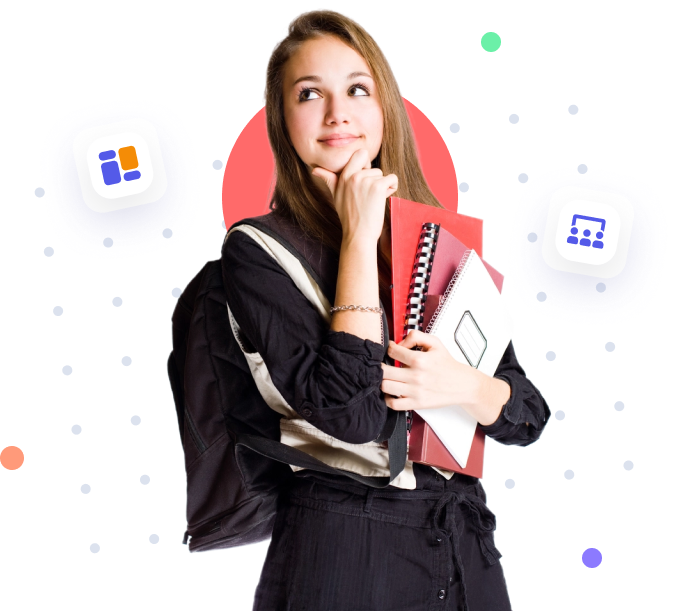
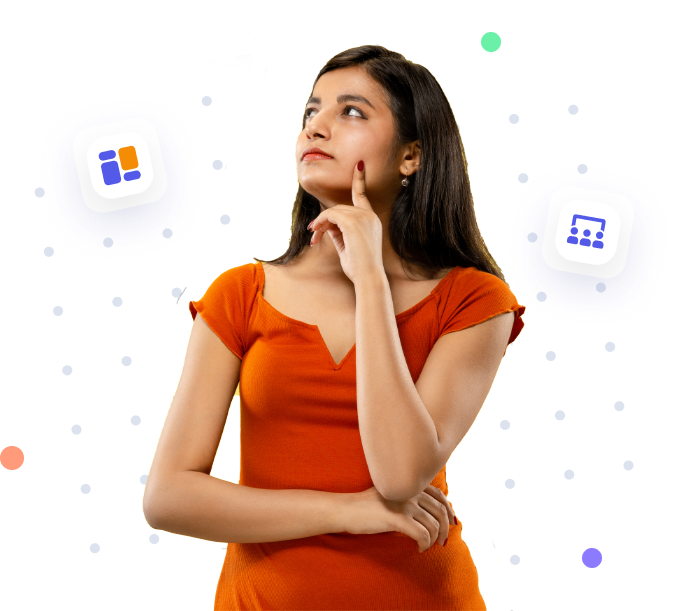
chore: change contents

diff --git a/components/MainContainerComponent.vue b/components/MainContainerComponent.vue
@@ -1,23 +1,12 @@
 <template>
   <div class="container px-4 lg:px-8 mx-auto max-w-screen-xl text-gray-700 overflow-x-hidden">
 
-    <!-- trusted by -->
-    <div class="max-w-4xl mx-auto">
-      <h1 class="text-center mb-3 text-gray-400 font-medium">Trusted by 5,000+ Companies Worldwide</h1>
-      <div class="grid grid-cols-3 lg:grid-cols-6 gap-4 justify-items-center">
-        <img class="h-7" src="img/company/google.svg">
-        <img class="h-7" src="img/company/netflix.svg">
-        <img class="h-7" src="img/company/airbnb.svg">
-        <img class="h-7 transform translate-y-2" src="img/company/amazon.svg">
-        <img class="h-7" src="img/company/facebook.svg">
-        <img class="h-7" src="img/company/grab.svg">
-      </div>
-    </div>
 
     <!-- All-In-One Cloud Software. -->
     <div data-aos="flip-up" class="max-w-xl mx-auto text-center mt-24">
-      <h1 class="font-bold text-darken my-3 text-2xl">All-In-One <span class="text-yellow-500">Cloud Software.</span></h1>
-      <p class="leading-relaxed text-gray-500">Skilline is one powerful online software suite that combines all the tools needed to run a successful school or office.</p>
+      <h1 class="font-bold text-darken my-3 text-2xl">Why to choose <span class="text-yellow-500">Foodie Hub?</span></h1>
+      <p class="leading-relaxed text-gray-500">Canteen Management Software is an automated software which enables all the activities of the canteen and maintain a detailed account of food served at the canteen.. It allows secure and speedy transactions. It helps management to handle the users by reducing the waiting time for the customers.
+      </p>
     </div>
     <!-- card -->
     <div class="grid md:grid-cols-3 gap-14 md:gap-5 mt-20">
@@ -27,8 +16,8 @@
             <path d="M24.75 23H8.25V28.75H24.75V23ZM32.3984 9.43359L23.9852 0.628906C23.5984 0.224609 23.0742 0 22.5242 0H22V11.5H33V10.952C33 10.3859 32.7852 9.83789 32.3984 9.43359ZM19.25 12.2188V0H2.0625C0.919531 0 0 0.961328 0 2.15625V43.8438C0 45.0387 0.919531 46 2.0625 46H30.9375C32.0805 46 33 45.0387 33 43.8438V14.375H21.3125C20.1781 14.375 19.25 13.4047 19.25 12.2188ZM5.5 6.46875C5.5 6.07164 5.80766 5.75 6.1875 5.75H13.0625C13.4423 5.75 13.75 6.07164 13.75 6.46875V7.90625C13.75 8.30336 13.4423 8.625 13.0625 8.625H6.1875C5.80766 8.625 5.5 8.30336 5.5 7.90625V6.46875ZM5.5 12.2188C5.5 11.8216 5.80766 11.5 6.1875 11.5H13.0625C13.4423 11.5 13.75 11.8216 13.75 12.2188V13.6562C13.75 14.0534 13.4423 14.375 13.0625 14.375H6.1875C5.80766 14.375 5.5 14.0534 5.5 13.6562V12.2188ZM27.5 39.5312C27.5 39.9284 27.1923 40.25 26.8125 40.25H19.9375C19.5577 40.25 19.25 39.9284 19.25 39.5312V38.0938C19.25 37.6966 19.5577 37.375 19.9375 37.375H26.8125C27.1923 37.375 27.5 37.6966 27.5 38.0938V39.5312ZM27.5 21.5625V30.1875C27.5 30.9817 26.8847 31.625 26.125 31.625H6.875C6.11531 31.625 5.5 30.9817 5.5 30.1875V21.5625C5.5 20.7683 6.11531 20.125 6.875 20.125H26.125C26.8847 20.125 27.5 20.7683 27.5 21.5625Z" fill="white"/>
           </svg>
         </div>
-        <h1 class="font-medium text-xl mb-3 lg:px-14 text-darken">Online Billing, Invoicing, & Contracts</h1>
-        <p class="px-4 text-gray-500">Simple and secure control of your organization’s financial and legal transactions. Send customized invoices and contracts</p>
+        <h1 class="font-medium text-xl mb-3 lg:px-14 text-darken">Online Billing & Invoicing</h1>
+        <p class="px-4 text-gray-500">A well-structured, organized way of maintaining the canteen’s data will ensure no wastage of food or finances, no manipulation of meal prices, no proxy mean orders, etc...</p>
       </div>
       <div data-aos="fade-up" data-aos-delay="150" class="bg-white shadow-xl p-6 text-center rounded-xl">
         <div style="background: #F48C06;" class="rounded-full w-16 h-16 flex items-center justify-center mx-auto shadow-lg transform -translate-y-12">
@@ -47,8 +36,8 @@
             <path d="M37.7143 37.7142H34.2857C33.3389 37.7142 32.5714 38.4817 32.5714 39.4285C32.5714 40.3754 33.3389 41.1429 34.2857 41.1429H37.7143C38.6611 41.1429 39.4286 40.3754 39.4286 39.4285C39.4286 38.4817 38.661 37.7142 37.7143 37.7142Z" fill="#F5F5FC"/>
           </svg>
         </div>
-        <h1 class="font-medium text-xl mb-3 lg:px-14 text-darken">Easy Scheduling & Attendance Tracking</h1>
-        <p class="px-4 text-gray-500">Schedule and reserve classrooms at one campus or multiple campuses. Keep detailed records of student attendance</p>
+        <h1 class="font-medium text-xl mb-3 lg:px-14 text-darken">Easy Scheduling & Customizable menu</h1>
+        <p class="px-4 text-gray-500">When a diverse group of people is together for a meal, it becomes very important to cater to varying tastes. Features to customize the canteen’s menu facilitate this to a great extent.</p>
       </div>
       <div data-aos="fade-up" data-aos-delay="300" class="bg-white shadow-xl p-6 text-center rounded-xl">
         <div style="background: #29B9E7;" class="rounded-full w-16 h-16 flex items-center justify-center mx-auto shadow-lg transform -translate-y-12">
@@ -56,29 +45,29 @@
             <path d="M8.25 19.25C11.2836 19.25 13.75 16.7836 13.75 13.75C13.75 10.7164 11.2836 8.25 8.25 8.25C5.21641 8.25 2.75 10.7164 2.75 13.75C2.75 16.7836 5.21641 19.25 8.25 19.25ZM46.75 19.25C49.7836 19.25 52.25 16.7836 52.25 13.75C52.25 10.7164 49.7836 8.25 46.75 8.25C43.7164 8.25 41.25 10.7164 41.25 13.75C41.25 16.7836 43.7164 19.25 46.75 19.25ZM49.5 22H44C42.4875 22 41.1211 22.6102 40.1242 23.5984C43.5875 25.4977 46.0453 28.9266 46.5781 33H52.25C53.7711 33 55 31.7711 55 30.25V27.5C55 24.4664 52.5336 22 49.5 22ZM27.5 22C32.8195 22 37.125 17.6945 37.125 12.375C37.125 7.05547 32.8195 2.75 27.5 2.75C22.1805 2.75 17.875 7.05547 17.875 12.375C17.875 17.6945 22.1805 22 27.5 22ZM34.1 24.75H33.3867C31.5992 25.6094 29.6141 26.125 27.5 26.125C25.3859 26.125 23.4094 25.6094 21.6133 24.75H20.9C15.4344 24.75 11 29.1844 11 34.65V37.125C11 39.4023 12.8477 41.25 15.125 41.25H39.875C42.1523 41.25 44 39.4023 44 37.125V34.65C44 29.1844 39.5656 24.75 34.1 24.75ZM14.8758 23.5984C13.8789 22.6102 12.5125 22 11 22H5.5C2.46641 22 0 24.4664 0 27.5V30.25C0 31.7711 1.22891 33 2.75 33H8.41328C8.95469 28.9266 11.4125 25.4977 14.8758 23.5984Z" fill="white"/>
           </svg>
         </div>
-        <h1 class="font-medium text-xl mb-3 lg:px-14 text-darken lg:h-14 pt-3">Customer Tracking</h1>
-        <p class="px-4 text-gray-500">Automate and track emails to individuals or groups. Skilline’s built-in system helps organize your organization </p>
+        <h1 class="font-medium text-xl mb-3 lg:px-14 text-darken lg:h-14 pt-3">Food Planning & Customer Reviews</h1>
+        <p class="px-4 text-gray-500">Canteen management systems help an organisation to become adaptive and flexible  that operates smoothly and efficiently on its own.</p>
       </div>
     </div>
 
     <!-- lorem -->
     <div class="mt-28">
       <div data-aos="flip-down" class="text-center max-w-screen-md mx-auto">
-        <h1 class="text-3xl font-bold mb-4">What is<span class="text-yellow-500">Skilline?</span></h1>
-        <p class="text-gray-500">Skilline is a platform that allows educators to create online classes whereby they can store the course materials online; manage assignments, quizzes and exams; monitor due dates; grade results and provide students with feedback all in one place.</p>
+        <h1 class="text-3xl font-bold mb-4">What exactly is <span class="text-yellow-500">Foodie Hub?</span></h1>
+        <p class="text-gray-500">Canteen Management Software is an automated software which enables all the activities of the canteen and maintain a detailed account of food served at the canteen.. It allows secure and speedy transactions. It helps management to handle the users by reducing the waiting time for the customers.</p>
       </div>
       <div data-aos="fade-up" class="flex flex-col md:flex-row justify-center space-y-5 md:space-y-0 md:space-x-6 lg:space-x-10 mt-7">
         <div class="relative md:w-5/12">
-          <img class="rounded-2xl" src="img/Rectangle 19.png" alt="">
+          <img class="rounded-2xl" src="img/employees.jpg" alt="">
           <div class="absolute bg-black bg-opacity-20 bottom-0 left-0 right-0 w-full h-full rounded-2xl">
             <div class="absolute top-1/2 left-1/2 transform -translate-x-1/2 -translate-y-1/2">
-              <h1 class="uppercase text-white font-bold text-center text-sm lg:text-xl mb-3">FOR INSTRUCTORS</h1>
+              <h1 class="uppercase text-white font-bold text-center text-sm lg:text-xl mb-3">FOR EMPLOYEES</h1>
               <button class="rounded-full text-white border text-xs lg:text-md px-6 py-3 w-full font-medium focus:outline-none transform transition hover:scale-110 duration-300 ease-in-out">Start a class today</button>
             </div>
           </div>
         </div>
         <div class="relative md:w-5/12">
-          <img class="rounded-2xl" src="img/Rectangle 21.png" alt="">
+          <img class="rounded-2xl" src="img/students.jpg" alt="">
           <div class="absolute bg-black bg-opacity-20 bottom-0 left-0 right-0 w-full h-full rounded-2xl">
             <div class="absolute top-1/2 left-1/2 transform -translate-x-1/2 -translate-y-1/2">
               <h1 class="uppercase text-white font-bold text-center text-sm lg:text-xl mb-3">FOR STUDENTS</h1>
@@ -98,7 +87,7 @@
       </div>
       <div data-aos="fade-left" class="sm:w-1/2 relative mt-10 sm:mt-0">
         <div style="background: #23BDEE;" class="floating w-24 h-24 absolute rounded-lg z-0 -top-3 -left-3"></div>
-        <img class="rounded-xl z-40 relative" src="img/teacher-explaining.png" alt="">
+        <img class="rounded-xl z-40 relative" src="img/couple.jpg" alt="">
         <button class="bg-white w-14 h-14 rounded-full flex items-center justify-center absolute top-1/2 left-1/2 transform -translate-x-1/2 -translate-y-1/2 focus:outline-none transform transition hover:scale-110 duration-300 ease-in-out z-50">
           <svg class="w-5 h-5 ml-1" viewBox="0 0 24 28" fill="none" xmlns="http://www.w3.org/2000/svg">
             <path d="M22.5751 12.8097C23.2212 13.1983 23.2212 14.135 22.5751 14.5236L1.51538 27.1891C0.848878 27.5899 5.91205e-07 27.1099 6.25202e-07 26.3321L1.73245e-06 1.00123C1.76645e-06 0.223477 0.848877 -0.256572 1.51538 0.14427L22.5751 12.8097Z" fill="#23BDEE"/>
@@ -161,7 +150,7 @@
     <!-- Assessments, Quizzes, Tests -->
     <div class="mt-20 flex flex-col-reverse md:flex-row items-center md:space-x-10">
       <div data-aos="fade-right" class="md:w-6/12">
-        <img class="md:w-11/12" src="img/true-false.png">
+        <img class="md:w-11/12 rounded-xl" src="img/hotel-interior.png">
       </div>
       <div data-aos="fade-left" class="md:w-6/12 md:transform md:-translate-y-20">
         <h1 class="font-semibold text-darken text-3xl lg:pr-64">Assessments, <span class="text-yellow-500">Quizzes</span>, Tests</h1>
@@ -175,13 +164,45 @@
         <h1 class="text-darken font-semibold text-3xl leading-tight lg:pr-32"><span class="text-yellow-500">Class Management</span> Tools for Educators</h1>
         <p class="my-5 lg:pr-14">Class provides tools to help run and manage the class such as Class Roster, Attendance, and more. With the Gradebook, teachers can review and grade tests and quizzes in real-time.</p>
       </div>
-      <img data-aos="fade-left" class="md:w-7/12" src="img/gradebook.png">
+      <img data-aos="fade-left" class="md:w-7/12" src="img/girl_introducing.png">
     </div>
 
     <!-- One-on-One Discussions -->
     <div class="mt-24 flex flex-col-reverse md:flex-row items-center md:space-x-10">
       <div data-aos="fade-right" class="md:w-7/12">
-        <img class="md:w-11/12" src="img/discussion.png">
+        <img class="md:w-11/12" src="img/girl-with-coffee.png">
+      </div>
+      <div data-aos="fade-left" class="md:w-5/12 md:transform md:-translate-y-6">
+        <h1 class="font-semibold text-darken text-3xl lg:pr-64">One-on-One <span class="text-yellow-500">Discussions</span></h1>
+        <p class="text-gray-500 my-5 lg:pr-24">Teachers and teacher assistants can talk with students privately without leaving the Zoom environment.</p>
+      </div>
+    </div>
+
+
+    <div class="sm:flex items-center sm:space-x-8 mt-36">
+      <div data-aos="fade-right" class="sm:w-1/2 relative">
+        <div class="bg-yellow-500 rounded-full absolute w-12 h-12 z-0 -left-4 -top-3 animate-pulse"></div>
+        <h1 class="font-semibold text-2xl relative z-50 text-darken lg:pr-10">With our wide range of recipes, <span class="text-yellow-500">you can do with Skilline</span></h1>
+        <p class="py-5 lg:pr-32">Skilline’s school management software helps traditional and online schools manage scheduling, attendance, payments and virtual classrooms all in one secure cloud-based system.</p>
+        <a href="" class="underline">Learn More</a>
+      </div>
+      <div data-aos="fade-left" class="sm:w-1/2 relative mt-10 sm:mt-0">
+        <div style="background: #23BDEE;" class="floating w-24 h-24 absolute rounded-lg z-0 -top-3 -left-3"></div>
+        <img class="rounded-xl z-40 relative" src="img/chef.jpg" alt="">
+        <button class="bg-white w-14 h-14 rounded-full flex items-center justify-center absolute top-1/2 left-1/2 transform -translate-x-1/2 -translate-y-1/2 focus:outline-none transform transition hover:scale-110 duration-300 ease-in-out z-50">
+          <svg class="w-5 h-5 ml-1" viewBox="0 0 24 28" fill="none" xmlns="http://www.w3.org/2000/svg">
+            <path d="M22.5751 12.8097C23.2212 13.1983 23.2212 14.135 22.5751 14.5236L1.51538 27.1891C0.848878 27.5899 5.91205e-07 27.1099 6.25202e-07 26.3321L1.73245e-06 1.00123C1.76645e-06 0.223477 0.848877 -0.256572 1.51538 0.14427L22.5751 12.8097Z" fill="#23BDEE"/>
+          </svg>
+        </button>
+        <div class="bg-yellow-500 w-40 h-40 floating absolute rounded-lg z-10 -bottom-3 -right-3"></div>
+      </div>
+    </div>
+
+
+    <!-- One-on-One Discussions -->
+    <div class="mt-24 flex flex-col-reverse md:flex-row items-center md:space-x-10">
+      <div data-aos="fade-right" class="md:w-7/12">
+        <img class="md:w-11/12" src="img/credits.png">
       </div>
       <div data-aos="fade-left" class="md:w-5/12 md:transform md:-translate-y-6">
         <h1 class="font-semibold text-darken text-3xl lg:pr-64">One-on-One <span class="text-yellow-500">Discussions</span></h1>
@@ -190,100 +211,6 @@
     </div>
 
     <button data-aos="flip-up" class="px-5 py-3 border border-yellow-500 text-yellow-500 font-medium my-14 focus:outline-none transform transition hover:scale-110 duration-300 ease-in-out rounded-full mx-auto block">See more features</button>
-
-    <!-- INTEGRATIONS -->
-    <div class="mt-24 flex flex-col md:flex-row items-start md:space-x-10">
-      <div data-aos="zoom-in-right" class="md:w-6/12">
-        <img class="md:w-8/12 mx-auto" src="img/integrations.png">
-      </div>
-      <div data-aos="zoom-in-left" class="md:w-6/12">
-        <div class="flex items-center space-x-20 mb-5">
-          <span class="border border-gray-300 w-14 absolute"></span>
-          <h1 class="text-gray-400 tracking-widest text-sm">INTEGRATIONS</h1>
-        </div>
-        <h1 class="font-semibold text-darken text-2xl lg:pr-40">200+ educational tools and platform <span class="text-yellow-500">integrations</span></h1>
-        <p class="text-gray-500 my-5 lg:pr-20">Schoology has every tool your classroom needs and comes pre-integrated with more than 200+ tools, student information systems (SIS), and education platforms.</p>
-        <button class="px-5 py-3 border border-yellow-500 text-yellow-500 font-medium my-4 focus:outline-none transform transition hover:scale-110 duration-300 ease-in-out rounded-full">See All Integrations</button>
-      </div>
-    </div>
-
-    <!-- TESTIMONIAL -->
-    <div class="mt-24 flex flex-col-reverse md:flex-row items-start md:space-x-10">
-      <div data-aos="zoom-in-right" class="md:w-5/12">
-        <div class="flex items-center space-x-20 mb-5">
-          <span class="border border-gray-300 w-14 absolute"></span>
-          <h1 class="text-gray-400 tracking-widest text-sm">TESTIMONIAL</h1>
-        </div>
-        <h1 class="font-semibold text-darken text-2xl lg:pr-40">What They Say?</h1>
-        <p class="text-gray-500 my-5 lg:pr-36">Skilline has got more than 100k positive ratings from our users around the world.</p>
-        <p class="text-gray-500 my-5 lg:pr-36">Some of the students and teachers were greatly helped by the Skilline.</p>
-        <p class="text-gray-500 my-5 lg:pr-36">Are you too? Please give your assessment</p>
-        <button class="flex items-center space-x-3 pl-3 border-b border-l border-t border-yellow-500 text-yellow-500 font-medium my-4 focus:outline-none transform transition hover:scale-110 duration-300 ease-in-out rounded-full">
-          <span>Write your assessment</span>
-          <div class="border border-yellow-500 h-14 w-14 rounded-full flex items-center justify-center">
-            <svg class="w-5 h-5" viewBox="0 0 26 16" fill="none" xmlns="http://www.w3.org/2000/svg">
-              <path d="M25.7071 8.70711C26.0976 8.31658 26.0976 7.68342 25.7071 7.2929L19.3431 0.928934C18.9526 0.538409 18.3195 0.538409 17.9289 0.928934C17.5384 1.31946 17.5384 1.95262 17.9289 2.34315L23.5858 8L17.9289 13.6569C17.5384 14.0474 17.5384 14.6805 17.9289 15.0711C18.3195 15.4616 18.9526 15.4616 19.3431 15.0711L25.7071 8.70711ZM-8.74228e-08 9L25 9L25 7L8.74228e-08 7L-8.74228e-08 9Z" fill="#F48C06"/>
-            </svg>
-          </div>
-        </button>
-      </div>
-      <div data-aos="zoom-in-left" class="md:w-7/12">
-        <img class="md:w-10/12 mx-auto" src="img/testimonials.png">
-      </div>
-    </div>
-
-    <!-- Latest News and Resources -->
-    <div data-aos="zoom-in" class="mt-16 text-center">
-      <h1 class="text-darken text-2xl font-semibold">Latest News and Resources</h1>
-      <p class="text-gray-500 my-5">See the developments that have occurred to Skillines in the world</p>
-    </div>
-    <div data-aos="zoom-in-up" class="my-14 flex flex-col lg:flex-row lg:space-x-20">
-      <div class="lg:w-6/12">
-        <img class="w-full mb-6" src="img/laptop-news.png">
-        <span class="bg-yellow-300 text-darken font-semibold px-4 py-px text-sm rounded-full">NEWS</span>
-        <h1 class="text-gray-800 font-semibold my-3 text-xl">Class adds $30 million to its balance sheet for a Zoom-friendly edtech solution</h1>
-        <p class="text-gray-500 mb-3">Class, launched less than a year ago by Blackboard co-founder Michael Chasen, integrates exclusively...</p>
-        <a href="" class="underline">Read more</a>
-      </div>
-      <div class="lg:w-7/12 flex flex-col justify-between mt-12 space-y-5 lg:space-y-0 lg:mt-0">
-        <div class="flex space-x-5">
-          <div class="w-4/12">
-            <div class="relative">
-              <img class="rounded-xl w-full" src="img/children-laptop.png">
-              <span class="absolute bottom-2 right-2 bg-yellow-300 text-darken font-semibold px-4 py-px text-sm rounded-full hidden sm:block">PRESS RELEASE</span>
-            </div>
-          </div>
-          <div class="w-8/12">
-            <h1 class="text-gray-800 text-sm sm:text-lg font-semibold">Class Technologies Inc. Closes $30 Million Series A Financing to Meet High Demand</h1>
-            <p class="text-gray-500 my-2 sm:my-4 text-xs sm:text-md">Class Technologies Inc., the company that created Class,...</p>
-          </div>
-        </div>
-        <div class="flex space-x-5">
-          <div class="w-4/12">
-            <div class="relative">
-              <img class="rounded-xl w-full" src="img/girl-laptop.png">
-              <span class="absolute bottom-2 right-2 bg-yellow-300 text-darken font-semibold px-4 py-px text-sm rounded-full hidden sm:block">NEWS</span>
-            </div>
-          </div>
-          <div class="w-8/12">
-            <h1 class="text-gray-800 text-sm sm:text-lg font-semibold">Zoom’s earliest investors are betting millions on a better Zoom for schools</h1>
-            <p class="text-gray-500 my-2 sm:my-4 text-xs sm:text-md">Zoom was never created to be a consumer product. Nonetheless, the...</p>
-          </div>
-        </div>
-        <div class="flex space-x-5">
-          <div class="w-4/12">
-            <div class="relative">
-              <img class="rounded-xl w-full" src="img/cat-laptop.png">
-              <span class="absolute bottom-2 right-2 bg-yellow-300 text-darken font-semibold px-4 py-px text-sm rounded-full hidden sm:block">NEWS</span>
-            </div>
-          </div>
-          <div class="w-8/12">
-            <h1 class="text-gray-800 text-sm sm:text-lg font-semibold">Former Blackboard CEO Raises $16M to Bring LMS Features to Zoom Classrooms</h1>
-            <p class="text-gray-500 my-2 sm:my-4 text-xs sm:text-md">This year, investors have reaped big financial returns from betting on Zoom...</p>
-          </div>
-        </div>
-      </div>
-    </div>
 
   </div>
 </template>

diff --git a/components/HeroComponent.vue b/components/HeroComponent.vue
@@ -27,7 +27,7 @@
 
         <!-- calendar -->
         <div data-aos="fade-up" data-aos-delay="300" data-aos-once="true" class="absolute top-32 right-28 sm:left-20 sm:top-56 md:top-20 md:left-80 lg:left-80 lg:top-52 floating-4">
-          <img class="bg-opacity-80 rounded-lg h-12 sm:h-12 md:h-16" src="img/burger.png">
+          <img class="bg-opacity-80 rounded-lg h-12 sm:h-8 md:h-16" src="img/burger.png">
         </div>
         <!-- red -->
         <div data-aos="fade-up" data-aos-delay="400" data-aos-once="true" class="absolute top-20 right-10 sm:right-24 sm:top-28 md:top-36 md:right-32 lg:top-32 lg:right-16 floating">
@@ -35,28 +35,9 @@
         </div>
         <!-- calendar -->
         <div data-aos="fade-up" data-aos-delay="500" data-aos-once="true" class="absolute top-32 md:bottom-48 lg:bottom-52 -right-6 lg:-right-20 lg:top-52 floating-4">
-          <img class="bg-opacity-80 rounded-lg h-12 sm:h-12 md:h-20 lg:h-24" src="img/fork.png">
+          <img class="bg-opacity-80 rounded-lg h-12 sm:h-16 md:h-20 lg:h-28" src="img/fork.png">
         </div>
 
-        <!-- ux class -->
-        <div data-aos="fade-up" data-aos-delay="500" data-aos-once="true" class="absolute bottom-14 -left-4 sm:left-2 sm:bottom-20 lg:bottom-24 lg:-left-20 floating-4">
-          <img class="bg-white bg-opacity-80 rounded-lg h-20 sm:h-28" src="img/ux-class.svg" alt="">
-        </div>
-        <!-- congrats -->
-        <div data-aos="fade-up" data-aos-delay="600" data-aos-once="true" class="absolute bottom-20 md:bottom-48 lg:bottom-52 -right-6 lg:right-8 floating">
-          <img class="bg-white bg-opacity-80 rounded-lg h-12 sm:h-16" src="img/congrat.svg" alt="">
-        </div>
-
-<!--        &lt;!&ndash; calendar &ndash;&gt;-->
-<!--        <div data-aos="fade-up" data-aos-delay="300" data-aos-once="true" class="absolute top-20 right-10 sm:right-24 sm:top-28 md:top-36 md:right-32 lg:top-32 lg:right-16 floating">-->
-<!--          <img class="bg-opacity-80 rounded-lg h-20 sm:h-28" src="img/biriyani.png">-->
-<!--        </div>-->
-
-
-        <!-- red -->
-        <div data-aos="fade-up" data-aos-delay="400" data-aos-once="true" class="hidden absolute top-20 right-10 sm:right-24 sm:top-28 md:top-36 md:right-32 lg:top-32 lg:right-16 floating">
-          <svg class="h-16 sm:h-24" viewBox="0 0 149 149" fill="none" xmlns="http://www.w3.org/2000/svg"><g filter="url(#filter0_d)"><rect x="40" y="32" width="69" height="69" rx="14" fill="#F3627C"/></g><rect x="51.35" y="44.075" width="47.3" height="44.85" rx="8" fill="white"/><path d="M74.5 54.425V78.575" stroke="#F25471" stroke-width="4" stroke-linecap="round"/><path d="M65.875 58.7375L65.875 78.575" stroke="#F25471" stroke-width="4" stroke-linecap="round"/><path d="M83.125 63.9125V78.575" stroke="#F25471" stroke-width="4" stroke-linecap="round"/><defs><filter id="filter0_d" x="0" y="0" width="149" height="149" filterUnits="userSpaceOnUse" color-interpolation-filters="sRGB"><feFlood flood-opacity="0" result="BackgroundImageFix"/><feColorMatrix in="SourceAlpha" type="matrix" values="0 0 0 0 0 0 0 0 0 0 0 0 0 0 0 0 0 0 127 0"/><feOffset dy="8"/><feGaussianBlur stdDeviation="20"/><feColorMatrix type="matrix" values="0 0 0 0 0.825 0 0 0 0 0.300438 0 0 0 0 0.396718 0 0 0 0.26 0"/><feBlend mode="normal" in2="BackgroundImageFix" result="effect1_dropShadow"/><feBlend mode="normal" in="SourceGraphic" in2="effect1_dropShadow" result="shape"/></filter></defs></svg>
-        </div>
 
       </div>
     </div>

diff --git a/components/FooterComponent.vue b/components/FooterComponent.vue
@@ -3,12 +3,12 @@
     <div class="max-w-lg mx-auto">
       <div class="flex py-12 justify-center text-white items-center px-20 sm:px-36">
         <div class="relative">
-          <h1 class="font-bold text-xl pr-5 relative z-50">Skilline</h1>
+          <h1 class="font-bold text-xl pr-5 relative z-50">Foodie Hub</h1>
           <svg class="w-11 h-11 absolute -top-2 -left-3 z-40" viewBox="0 0 79 79" fill="none" xmlns="http://www.w3.org/2000/svg">
             <path d="M35.9645 2.94975C37.9171 0.997129 41.0829 0.997127 43.0355 2.94975L76.0502 35.9645C78.0029 37.9171 78.0029 41.0829 76.0503 43.0355L43.0355 76.0502C41.0829 78.0029 37.9171 78.0029 35.9645 76.0503L2.94975 43.0355C0.997129 41.0829 0.997127 37.9171 2.94975 35.9645L35.9645 2.94975Z" stroke="#26C1F2" stroke-width="2"/>
           </svg>
         </div>
-        <span class="border-l border-gray-500 text-sm pl-5 py-2 font-semibold">Virtual Class for Zoom</span>
+        <span class="border-l border-gray-500 text-sm pl-5 py-2 font-semibold">Canteen Management System</span>
       </div>
       <div class="text-center pb-16 pt-5">
         <label class="text-gray-300 font-semibold">Subscribe to get our Newsletter</label>
@@ -23,11 +23,14 @@
         <a href="" class="border-l border-gray-400 pl-3">Terms & Conditions</a>
       </div>
       <div class="text-center text-white">
-        <p class="my-3 text-gray-400 text-sm">&copy; 2021 Class Technologies Inc. </p>
-        <div class="py-3 tracking-wide">
-          <p>Code By <span class="font-semibold">mhaecal</span></p>
-          <p>UI/UX By <span class="font-semibold">Irvan Moses</span></p>
-        </div>
+        <p class="my-3 text-gray-400 text-sm">&copy; 2022  Foodie Hub Technology Inc. </p>
+
+        <!--credits to https://github.com/mhaecal -->
+        <!--model: https://www.freepik.com/master1305 -->
+       <div class="py-3 tracking-wide">
+<!--          <p>Code By <span class="font-semibold">mhaecal</span></p>-->
+<!--          <p>UI/UX By <span class="font-semibold">Irvan Moses</span></p>-->
+       </div>
       </div>
     </div>
   </footer>

diff --git a/components/NavbarComponent.vue b/components/NavbarComponent.vue
@@ -4,7 +4,7 @@
     <div class="flex flex-col max-w-screen-xl px-8 mx-auto md:items-center md:justify-between md:flex-row">
       <div class="flex flex-row items-center justify-between py-6">
         <div class="relative md:mt-8">
-          <a href="#" class="text-lg relative z-50 font-bold tracking-widest text-gray-900 rounded-lg focus:outline-none focus:shadow-outline">Skilline</a>
+          <a href="#" class="text-lg relative z-50 font-bold tracking-widest text-gray-900 rounded-lg focus:outline-none focus:shadow-outline">Foodie Hub</a>
           <svg class="h-11 z-40 absolute -top-2 -left-3" viewBox="0 0 79 79" fill="none" xmlns="http://www.w3.org/2000/svg">
             <path d="M35.2574 2.24264C37.6005 -0.100501 41.3995 -0.100505 43.7426 2.24264L76.7574 35.2574C79.1005 37.6005 79.1005 41.3995 76.7574 43.7426L43.7426 76.7574C41.3995 79.1005 37.6005 79.1005 35.2574 76.7574L2.24264 43.7426C-0.100501 41.3995 -0.100505 37.6005 2.24264 35.2574L35.2574 2.24264Z" fill="#65DAFF"/>
           </svg>
